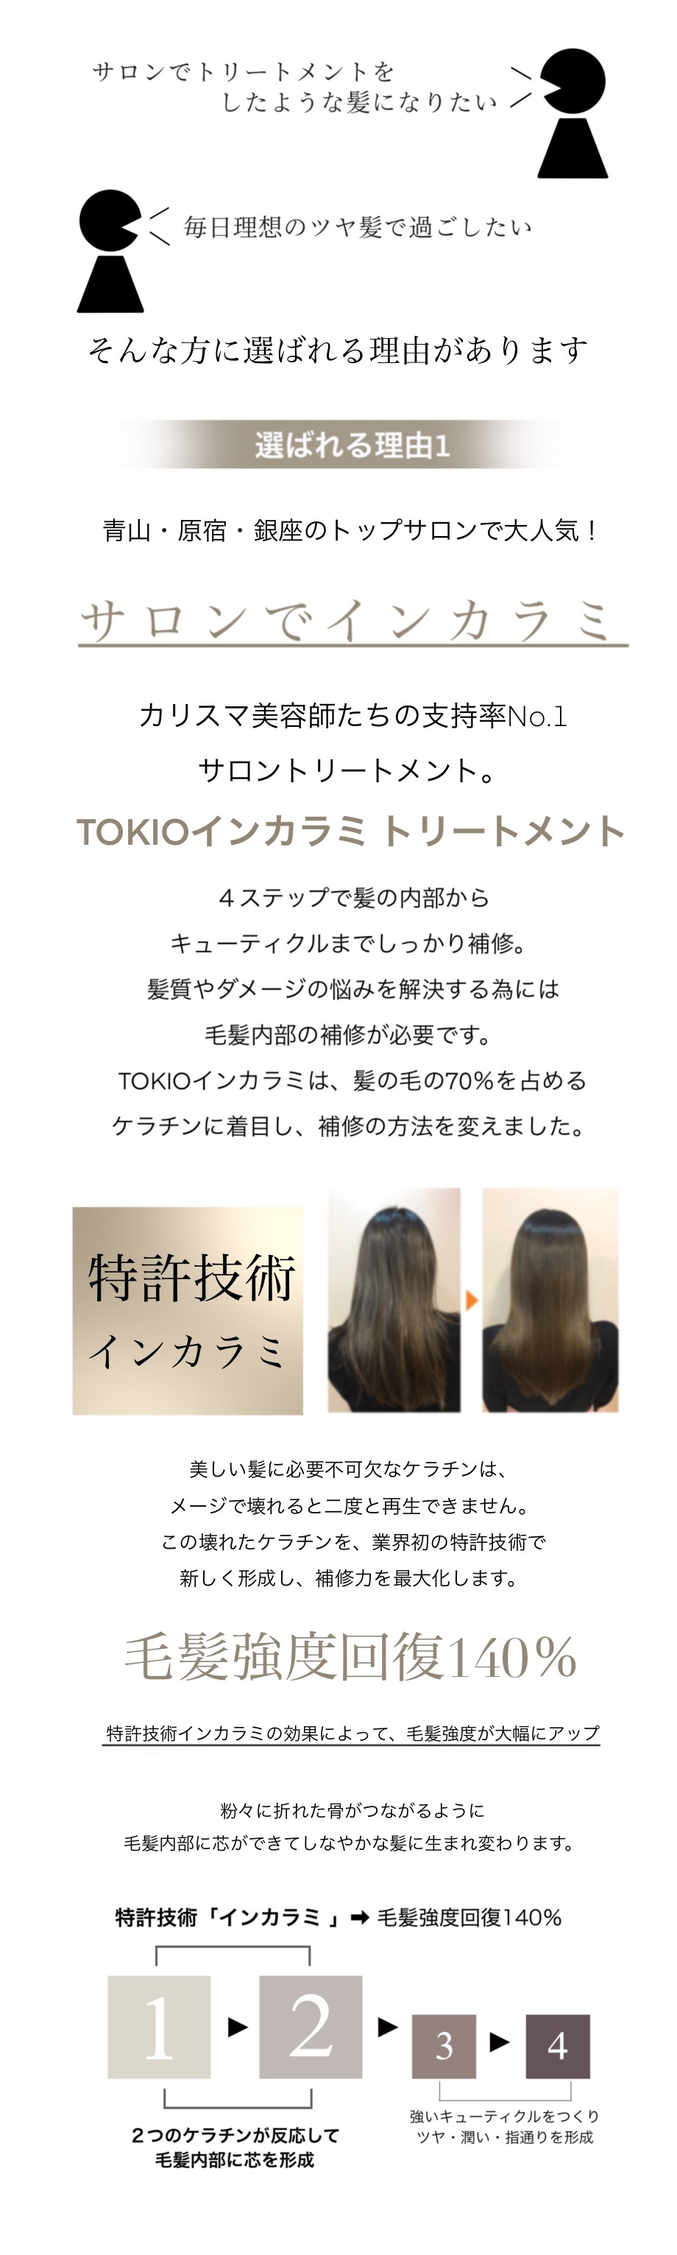
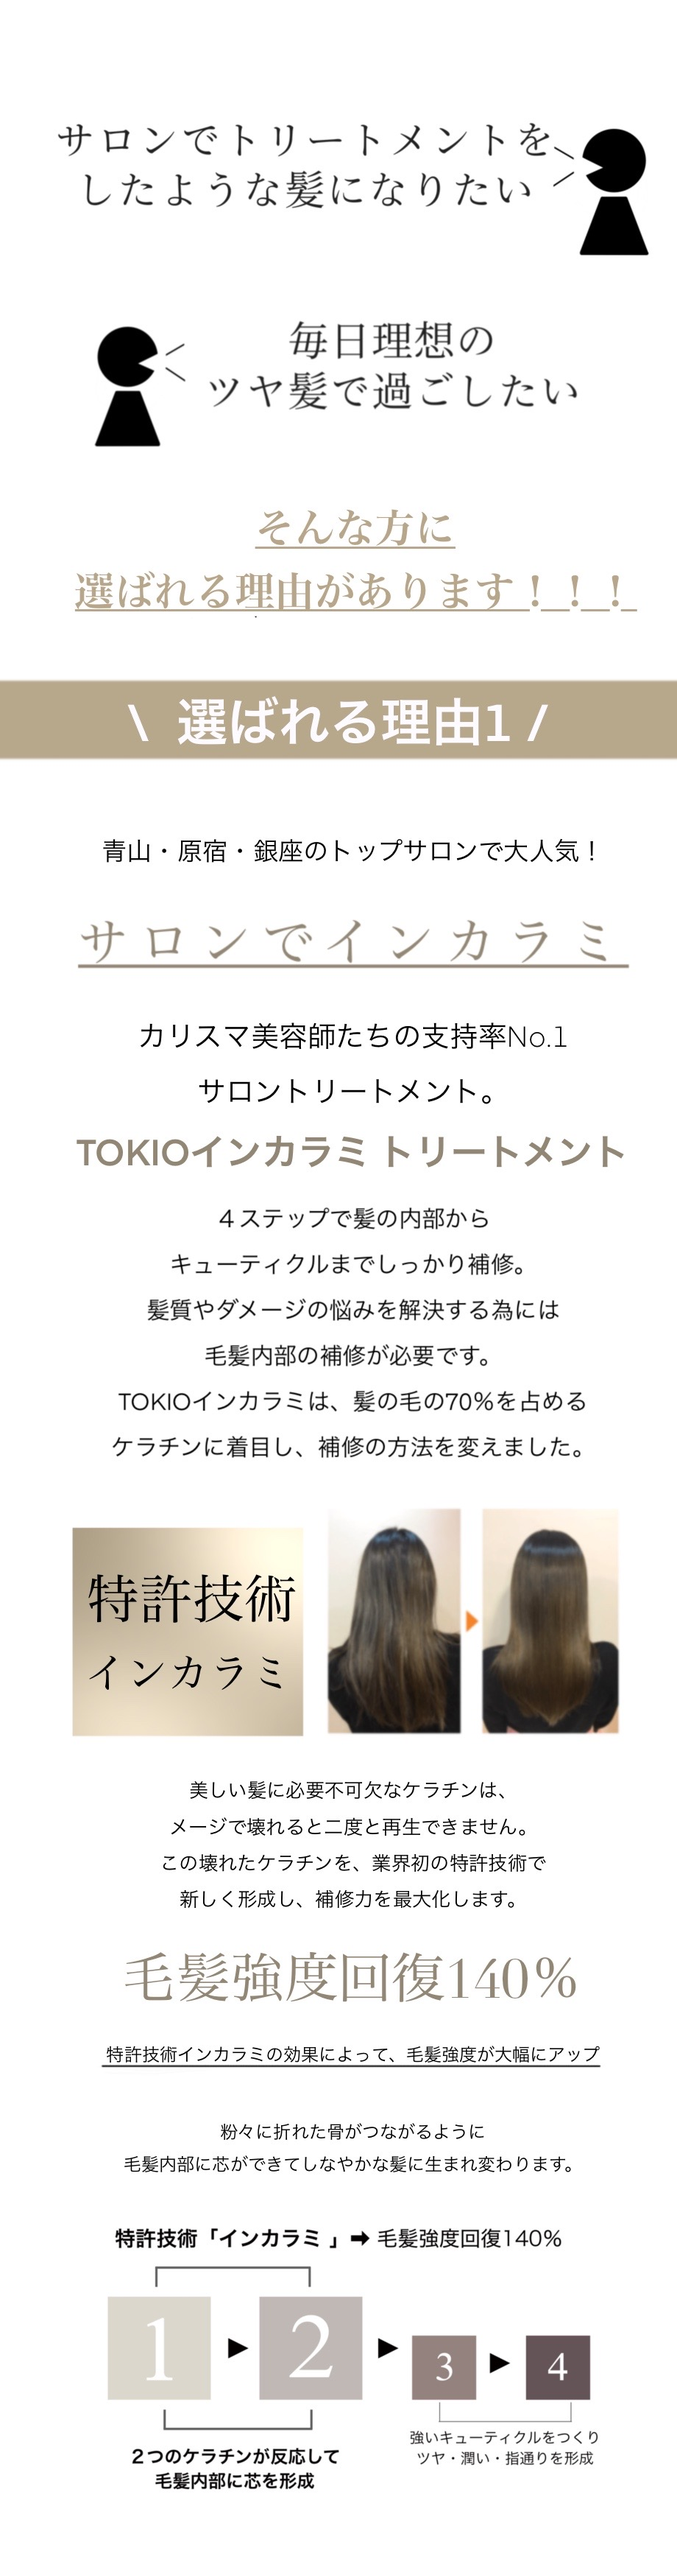
upload

diff --git a/index.html b/index.html
@@ -264,6 +264,15 @@
             </div>
         </div>
 
+        <div class="section-05">
+            <div class="container">
+               
+                <div class="col-lg-8 offset-lg-2">
+                    <img src="assets/images/img-reason002.jpg" alt="TOKIO インカラミ 選ばれる理由" class="img-fluid">
+                </div>
+            </div>
+        </div>
+
         <div class="section-15">
             <div class="top">
                 <img src="assets/images/section-15-img.png" alt="TOKIO INKARAMI" class="img-fluid">
@@ -271,10 +280,11 @@
         </div>
         <div class="section-16" id="tokioIngredients1">
             <div class="contents">
-                <h3 class="text-center mt-5">ご自宅でサロンの仕上がり</h3>
-                <div class="col-lg-4 offset-lg-4 col-md-8 offset-md-2 col-sm-8 offset-sm-2 col-8 offset-2">
-                    <img src="assets/images/tokio1-4.png" alt="TOKIO INKARAMI" class="img-fluid">
-                    <img src="assets/images/tokioinkarami400.png" alt="TOKIO INKARAMI" class="img-fluid">
+                <!-- <h3 class="text-center mt-5">ご自宅でサロンの仕上がり</h3> -->
+                <div class="col-lg-4 offset-lg-4 col-md-8 offset-md-2 col-sm-10 offset-sm-1 col-10 offset-1">
+                    <img src="assets/images/img-reason003.png" alt="TOKIO INKARAMI " class="img-fluid">
+                    <!-- <img src="assets/images/tokio1-4.png" alt="TOKIO INKARAMI" class="img-fluid">
+                    <img src="assets/images/tokioinkarami400.png" alt="TOKIO INKARAMI" class="img-fluid"> -->
                 </div>
                 <h4 class="text-center">シャンプーに<span>TOKIO <em>1</em></span></h4>
                 <h4 class="text-center">トリートメントに<span>TOKIO <em>2</em>/<em>3</em>/<em>4</em></span></h4>
